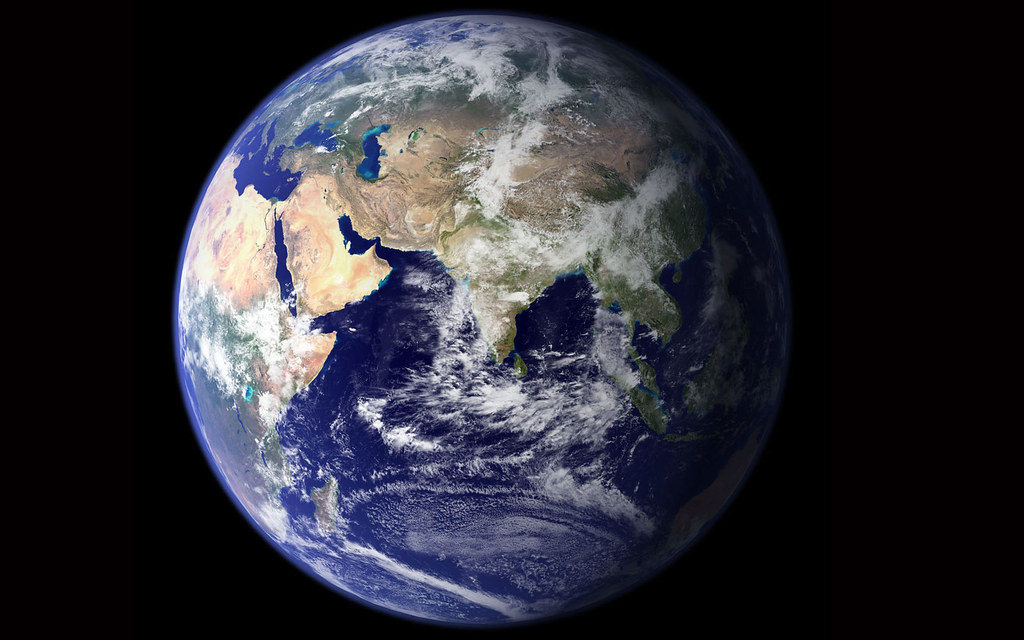
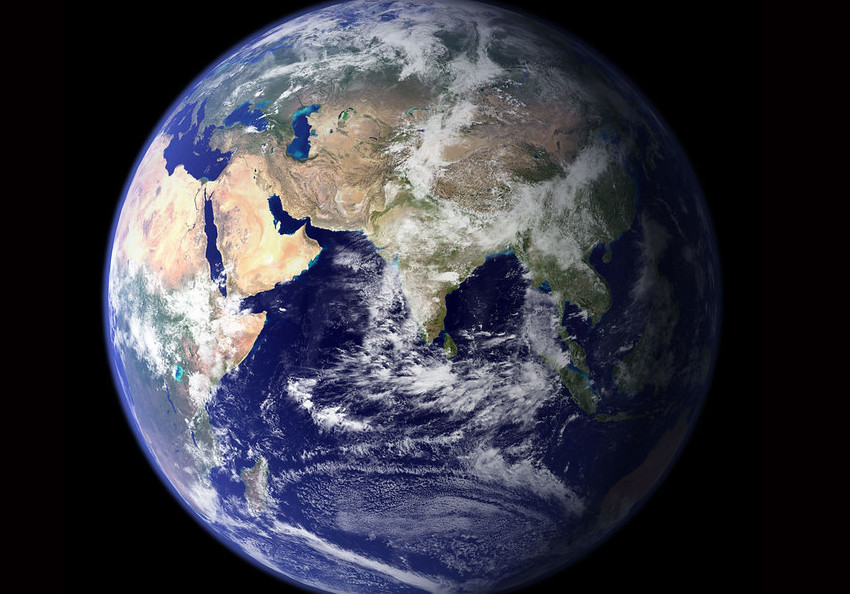
cropping images

diff --git a/website/theses/templates/theses/theses_base.html b/website/theses/templates/theses/theses_base.html
@@ -109,7 +109,7 @@
 
                 <div class="col-md-4 order-md-1">
                     <h3>Effective Thesis</h3>
-                    <p><a href="/project">Contact</a></p>
+                    <p><a href="/project#ask-anything">Contact</a></p>
                     <p>© 2018 Effective altruism CZ. <a href="https://github.com/ea-czech-republic/efektivnialtruismus.cz/">Github EA CZ</a></p>
                 </div>
 
